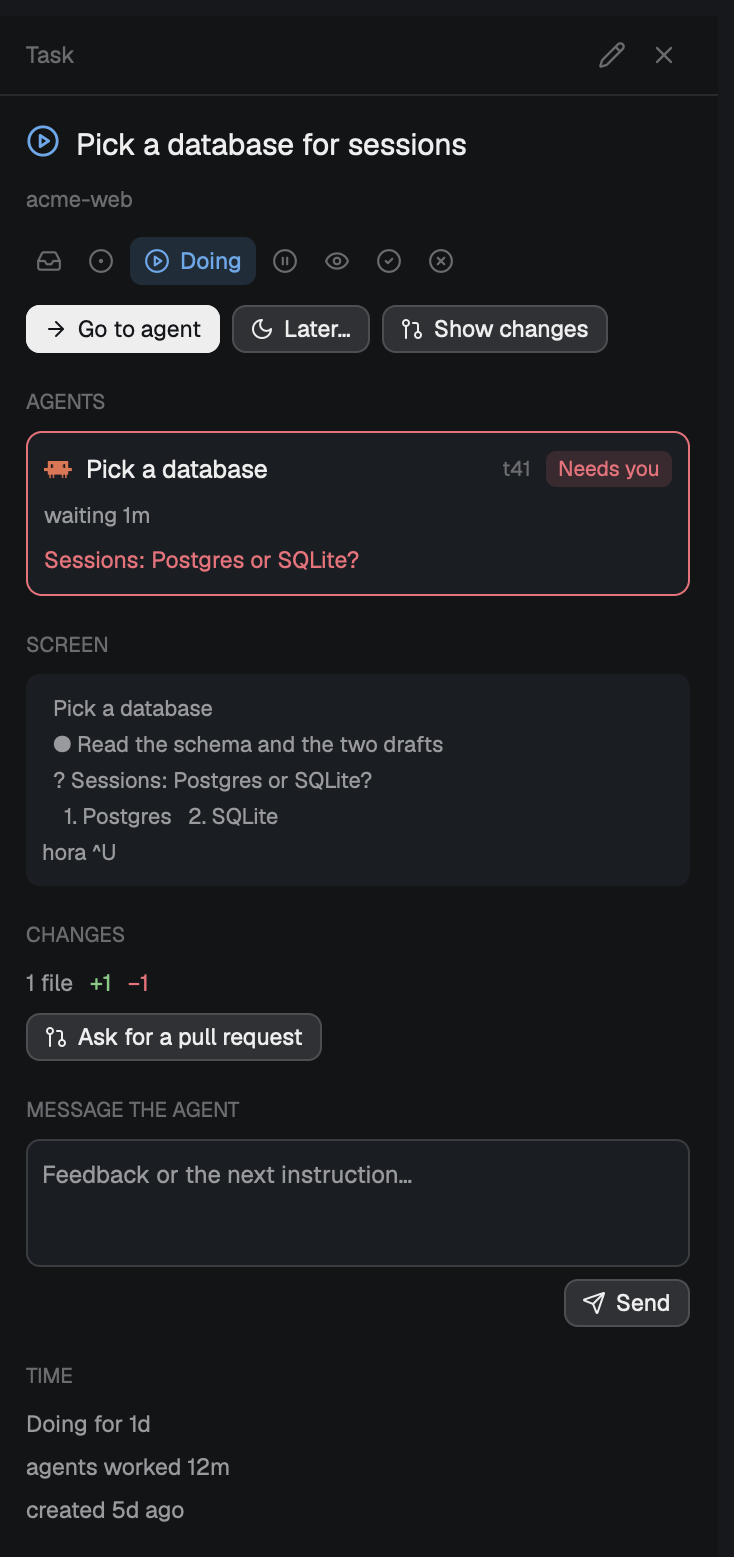
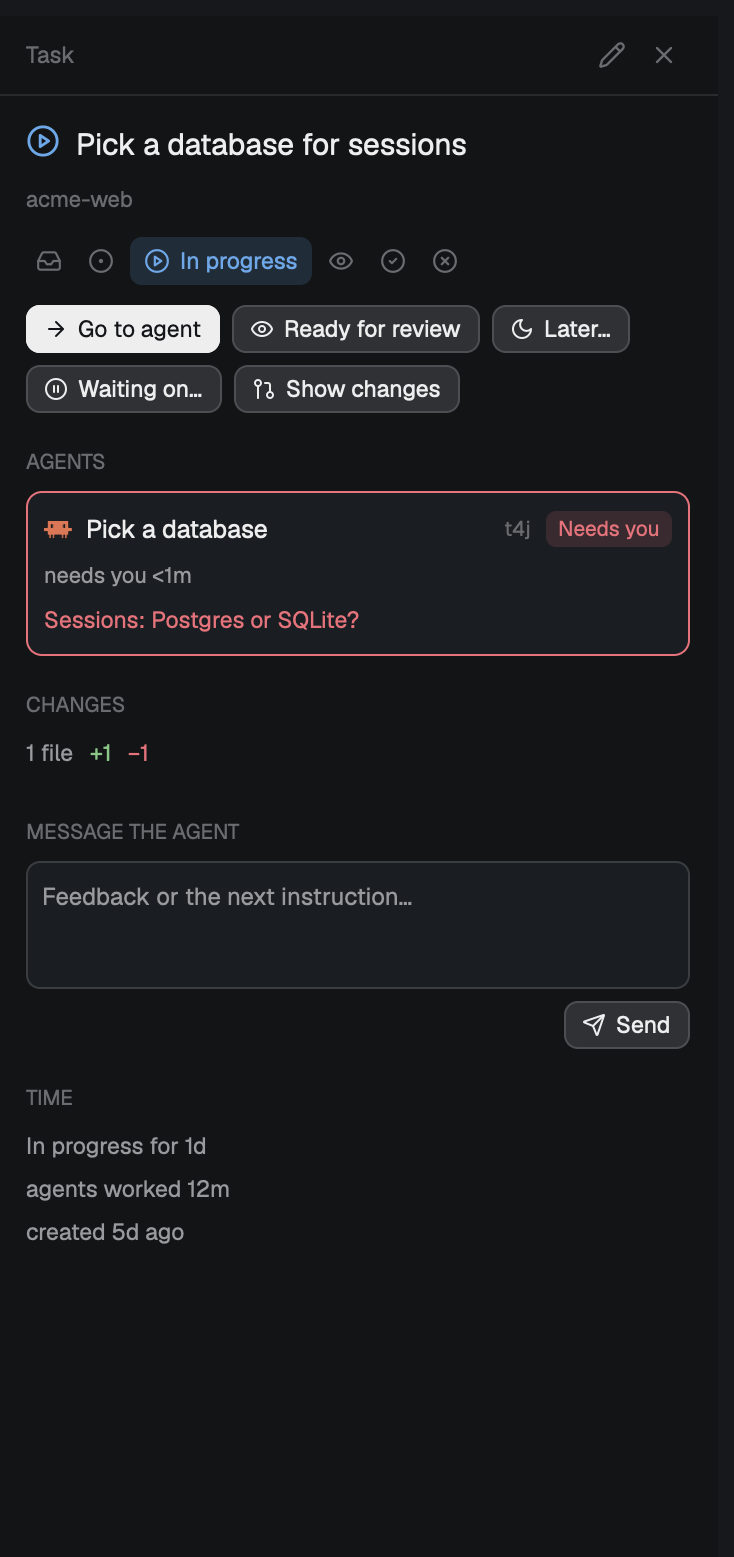
taskr 1.7.1: pull requests only for a task with its own branch, Stats bars across the width, new screenshots for 1.7

diff --git a/site/tutorial.html b/site/tutorial.html
@@ -44,6 +44,7 @@
         <li><a href="#review">Review and finish</a></li>
         <li><a href="#resume">Pick up after a restart</a></li>
         <li><a href="#board">Plan on the board</a></li>
+        <li><a href="#stats">See what got done</a></li>
         <li><a href="#keys">Keys and settings</a></li>
       </ol>
     </nav>
@@ -69,7 +70,7 @@ cd herdr-taskr
       <section class="step" id="project">
         <h2>Make a project</h2>
         <div class="side-by-side">
-          <figure><img src="img/projects.png" width="660" height="1609" alt="The Projects view: the Acme project with two folders, their branches, changes and tasks." loading="lazy"></figure>
+          <figure><img src="img/projects.png" width="660" height="1700" alt="The Projects view: the Acme project with two folders, their branches, changes and tasks." loading="lazy"></figure>
           <div>
             <p>Press <kbd>tab</kbd> in the list (or click <strong>Projects</strong>) to see the outline. Every folder open in Herdr shows up, under <em>No project</em> at first.</p>
             <p>Click the folder button in the header to make a project: give it a name and add its folders with <strong>Add folder…</strong>: a repository, or a plain folder with no repositories inside, goes in at once; a folder that holds several (<code>~/dev</code>) lists them to tick, with a filter, or you can <em>Add &lt;folder&gt; itself</em>. A folder in a project is only a pointer: no terminal, no task, until you start something there; right-click it to move it to another project or remove it from this one. A project's own <strong>›_</strong>, <strong>+</strong> and <strong>⋯</strong> open a terminal, a task or an agent for the whole project: they open in the project's own space, in the folder holding all its folders (<code>~/dev</code>; your home folder while it has none, or when they share nothing below it), and show at the project's level, above its folders; the agent reaches every folder and is told which they are. <strong>⋯ → Close project</strong> closes the project's space and every space of its folders (a folder's menu closes just its own). You can also drag a folder (like <code>~</code>) onto a project's name to move it there, with its tasks. Drag a project's row onto another to change their order.</p>
@@ -82,7 +83,7 @@ cd herdr-taskr
       <section class="step" id="tasks">
         <h2>Add tasks</h2>
         <p>Press <kbd>n</kbd>, click <strong>+</strong> in the header, or <strong>+</strong> on a folder to start with that folder filled in.</p>
-        <figure class="mid"><img src="img/form.png" width="1160" height="1360" alt="The New task form: title, project, folder, status, due date, estimate, next step and notes." loading="lazy"><figcaption>Only the title is required. Enter saves.</figcaption></figure>
+        <figure class="mid"><img src="img/form.png" width="1160" height="1360" alt="The task form for an Acme task: title, folder (the whole project or one of its folders), stage, due date, estimate, next step and notes." loading="lazy"><figcaption>Only the title is required. Enter saves.</figcaption></figure>
         <p>Keep the title short. The <strong>next step</strong> is the one action to take now; what the work needs (context, details, how it should be done, links) goes in <strong>Notes</strong>. When you start an agent on the task, it gets the title, the next step and the notes as its first message.</p>
         <p>Write the due date the way you'd say it:</p>
         <table class="keys">
@@ -130,14 +131,14 @@ Add login · opus 5.5 · high · ctx 182k      ~/dev/api</code></pre>
       <section class="step" id="review">
         <h2>Review and finish</h2>
         <div class="side-by-side">
-          <figure><img src="img/detail-review.png" width="734" height="1361" alt="A finished task in Review: its agent's last screen, changes, and the Mark done button." loading="lazy"></figure>
+          <figure><img src="img/detail-review.png" width="734" height="1361" alt="A task in Review: its agent's last screen, a message box, and the Mark done button." loading="lazy"></figure>
           <div>
             <p>When the agent stops, its turn is over, not the task: it shows under <strong>Finished</strong>, in bold until you look, then with its agent <em>Idle</em>, waiting for your next word (its stage stays <strong>In progress</strong>). Give it the next instruction, or, when the whole task is ready, press <strong>Ready for review</strong>: it moves to <strong>To review</strong>. Nothing is marked done by itself: that's your call. (Working with pull requests? A PR opened for a task in its own worktree moves it to Review too.)</p>
             <p>Not now? Move it to <strong>Next</strong> (you'll do it) or <strong>Dropped</strong> (you won't), or park it: <strong>Later</strong> (right-click or <kbd>z</kbd>) for tomorrow, next week, a day you type, <em>someday</em> or <em>until its agent works</em>; <strong>Waiting on…</strong> when it depends on someone, with who and a day to follow up. It waits in a folded <em>Later</em> section, out of your in-progress count, and comes back on its day with a notification.</p>
             <p>In the detail, under <strong>Changes</strong>:</p>
             <ul>
               <li><strong>Show changes</strong> opens Herdr's diff panel for the task's folder.</li>
-              <li>With <code>gh</code>, the pull request and its CI checks appear. <strong>Ask for a pull request</strong> sends the agent a request to commit, push and open one; <strong>Send failed checks</strong> sends it the names of the checks that failed.</li>
+              <li>For a task with its own branch (started in a worktree) and <code>gh</code>, the pull request and its CI checks appear. <strong>Ask for a pull request</strong> sends the agent a request to commit, push and open one; <strong>Send failed checks</strong> sends it the names of the checks that failed.</li>
             </ul>
             <p>Happy with it? Press <kbd>space</kbd> or <strong>Mark done</strong>. To put its tabs away too, right-click → <strong>Archive</strong>, which can also remove its worktree. A branch with unmerged commits is always kept.</p>
           </div>
@@ -167,6 +168,17 @@ Add login · opus 5.5 · high · ctx 182k      ~/dev/api</code></pre>
         </ul>
       </section>
 
+      <section class="step" id="stats">
+        <h2>See what got done</h2>
+        <p>The chart button at the top of Now opens Stats as a tab; a project's menu opens it for that project.</p>
+        <figure><img src="img/stats.png" width="2240" height="1230" alt="Stats over the last 7 days: four numbers, a bar chart of agent time per day, one of tasks done per day, and a table by project." loading="lazy"><figcaption>Hover a bar for its day and its number.</figcaption></figure>
+        <ul>
+          <li>Pick the period (today, or the last 7, 30 or 90 days) and every project or one.</li>
+          <li><em>Done</em> counts the tasks you closed; <em>Worked on</em>, the tasks whose agents worked, those with no plan too; <em>Turns</em>, how many times an agent finished its turn; <em>Agent time</em>, how long they worked.</li>
+          <li>Done tasks count back through their history. Agent time and turns are kept per day from 1.7 on, so a longer period says from which day it counts.</li>
+        </ul>
+      </section>
+
       <section class="step" id="keys">
         <h2>Keys and settings</h2>
         <p>Clicking a task in the list shows it in the detail and brings its agent's tab (or its terminal) to the front.</p>
@@ -187,7 +199,7 @@ Add login · opus 5.5 · high · ctx 182k      ~/dev/api</code></pre>
         <p>Anywhere in the layout: <kbd>cmd</kbd> <kbd>k</kbd> finds a task, <kbd>cmd</kbd> <kbd>shift</kbd> <kbd>n</kbd> makes one, <kbd>cmd</kbd> <kbd>i</kbd> shows or hides the detail.</p>
         <figure class="mid"><img src="img/jump.png" width="1080" height="880" alt="Find a task: a search box over the list of tasks, open ones first." loading="lazy"><figcaption>Find a task searches titles, folders, next steps, projects and issue numbers. Arrows move, enter opens.</figcaption></figure>
         <div class="side-by-side">
-          <figure><img src="img/settings.png" width="960" height="2360" alt="taskr settings: Park idle agents, Pause quiet projects, Now and Projects as tabs or stacked, In-progress limit, Days without movement, Agents after a restart, Reminders, Activity in the details, Plan usage, and which agent to start." loading="lazy"></figure>
+          <figure><img src="img/settings.png" width="960" height="2360" alt="taskr settings: Park idle agents, Now and Projects as tabs or stacked, Pause quiet projects, In-progress limit, Days without movement, Agents after a restart, Reminders, Activity in the details, Plan usage, and which agent to start." loading="lazy"></figure>
           <div>
             <p>The gear at the right of the status bar opens the settings:</p>
             <ul>

diff --git a/site/index.html b/site/index.html
@@ -74,12 +74,12 @@ cd herdr-taskr &amp;&amp; ./install.sh --keys</span><button class="copy" data-co
 
       <div class="views">
         <div class="view side">
-          <img src="img/now-list.png" width="660" height="1536" alt="The Now list: what the agents ask of you (Needs you, Finished, Working), then the stages (To review, In progress, Next, Inbox), and a folded Later section; agents started from a terminal are tasks in it too." loading="lazy">
+          <img src="img/now-list.png" width="608" height="1580" alt="The Now list: what the agents ask of you (Needs you, Finished, Working), then the stages (In progress, Next, Inbox), and a folded Later section; agents started from a terminal are tasks in it too." loading="lazy">
           <div><h3>Now</h3>
           <p>What moves work forward, in order: what your agents ask of you, then the work by stage. An agent's question sits in the row itself, so you can answer without hunting for the tab. Not now, or waiting on someone? Park it with <em>Later</em> or <em>Waiting on…</em>: it waits out of the way and comes back on its day, with a reminder.</p></div>
         </div>
         <div class="view side">
-          <img src="img/projects.png" width="660" height="1609" alt="The Projects outline: Acme with a task and a terminal for the whole project above its folders acme-web and acme-api, each with branch, changes and tasks." loading="lazy">
+          <img src="img/projects.png" width="660" height="1700" alt="The Projects outline: Acme with a task and an agent for the whole project above its folders acme-web and acme-api, each with branch, changes and tasks." loading="lazy">
           <div><h3>Projects</h3>
           <p>Projects, their folders (a git folder shows its branch, commits not pushed and uncommitted changes) and their tasks. Terminals show up under their folder; a shell isn't a task. Each project gets its own board, and its own terminal, tasks and agents, which work across all its folders. Want both lists at once? Stack Projects over Now in the settings.</p></div>
         </div>
@@ -90,8 +90,14 @@ cd herdr-taskr &amp;&amp; ./install.sh --keys</span><button class="copy" data-co
           <p>One column per stage, and a board per project in a tab of its own. Agents started from a terminal are cards too, with no plan. Drag a card to another column or into place among the others, and watch the In progress column count against the limit you set.</p>
         </div>
 
+        <div class="view wide">
+          <img src="img/stats.png" width="2240" height="1230" alt="Stats over the last 7 days: Done 5, Worked on 6, Turns 46, Agent time 5h 14m; a bar chart of agent time per day, one of tasks done per day, and a table by project." loading="lazy">
+          <h3>Stats</h3>
+          <p>What got done today or over the last 7, 30 or 90 days, for every project or one: tasks you closed, tasks your agents worked on, their turns and their time, a chart per day and a table by project. Agents you started without a plan count like any task.</p>
+        </div>
+
         <div class="view wide split">
-          <img src="img/detail-blocked.png" width="734" height="1557" alt="The detail of a task whose agent needs an answer: the question, the agent's screen, its changes and a message box." loading="lazy">
+          <img src="img/detail-blocked.png" width="734" height="1557" alt="The detail of a task whose agent needs an answer: the question, its changes and a message box." loading="lazy">
           <div>
             <h3>Task detail</h3>
             <p>Everything about one task, next to its agent.</p>
@@ -127,7 +133,7 @@ cd herdr-taskr &amp;&amp; ./install.sh --keys</span><button class="copy" data-co
       <p class="intro">The parts that save a trip to another window.</p>
       <div class="views">
         <div class="view wide split">
-          <img src="img/detail-resume.png" width="734" height="876" alt="A task whose agent is gone, with Resume agent above Start agent." loading="lazy">
+          <img src="img/detail-resume.png" width="734" height="876" alt="A task whose agent is gone: Resume agent first, then Start agent and Start with…." loading="lazy">
           <div>
             <h3>Resume after a restart</h3>
             <p>taskr remembers the Claude Code or Codex conversation each task's agent was in. After a reboot, or once you closed its tab, <em>Resume agent</em> picks it up where it was, in its folder, tied to the task again.</p>
@@ -137,7 +143,7 @@ cd herdr-taskr &amp;&amp; ./install.sh --keys</span><button class="copy" data-co
           </div>
         </div>
         <div class="view wide split">
-          <img src="img/light-tasks.png" width="660" height="600" alt="Now: an agent started from a terminal, Try a search box for the docs, is a task with no plan, next to planned tasks." loading="lazy">
+          <img src="img/light-tasks.png" width="608" height="600" alt="Now: an agent started from a terminal, Try a search box for the docs, is a task with no plan, next to planned tasks." loading="lazy">
           <div>
             <h3>Tasks or terminals, the same flow</h3>
             <p>Started an agent in a terminal on a hunch? Every agent is a task: one with no plan, named after what the agent calls its work, in progress while its agent is open, on the list and the board. It goes to Done when its agent quits or its tab closes (the tab is a plain terminal again), and Resume agent picks it up. Many agents open? Park the idle ones until they work again, by hand or by themselves after a while. Press <em>Plan it…</em> to give it a next step, notes or a due date, or change anything and it's yours. Plan with tasks when you want the details; work with terminals when you don't.</p>

diff --git a/mods/taskr/stats.js b/mods/taskr/stats.js
@@ -41,17 +41,20 @@ export const Stats = {
       .child(div().text_size(22).font_semibold().text_color(t.foreground).child(value))
       .when(Boolean(sub), (el) => el.child(div().text_size(11).text_color(t.muted).child(sub)));
     const hours = (ms) => (ms ? duration(ms) : "0m");
-    // A bar per day: one measure per chart, its height from that chart's largest day.
+    // A bar per day: one measure per chart, its height from that chart's largest day. Each day has
+    // its slot; its date shows under it over a week or less, else under the first and last.
     const bars = (id, label, values, color, show) => {
       const max = Math.max(...values.map((v) => v.value), 0);
+      const dated = (i) => values.length <= 7 || i === 0 || i === values.length - 1;
       return v_flex().id(id).gap(6).p(12).rounded(9).bg(t.chrome).border_1().border_color(t.border).min_w(0)
         .child(div().text_size(11.5).text_color(t.muted).child(label))
-        .child(h_flex().h(BAR_H).gap(2).items_end().min_w(0)
-          .children(values.map((v, i) => div().id(`${id}-${i}`).flex_1().min_w(2).max_w(28)
-            .h(max ? Math.max(v.value ? 3 : 1, Math.round((v.value / max) * BAR_H)) : 1)
-            .rounded_t(3).bg(v.value ? color : t.border).tooltip(`${S.statsDay(v.day)}: ${show(v.value)}`))))
-        .child(h_flex().justify_between().text_size(10.5).text_color(t.dim)
-          .child(div().child(S.statsDay(values[0]?.day))).child(div().child(S.statsDay(values.at(-1)?.day))));
+        .child(h_flex().gap(2).items_end().min_w(0)
+          .children(values.map((v, i) => v_flex().id(`${id}-${i}`).flex_1().min_w(2).gap(4).items_center()
+            .tooltip(`${S.statsDay(v.day)}: ${show(v.value)}`)
+            .child(h_flex().h(BAR_H).w_full().items_end().justify_center()
+              .child(div().w_full().max_w(28).h(max ? Math.max(v.value ? 3 : 1, Math.round((v.value / max) * BAR_H)) : 1)
+                .rounded_t(3).bg(v.value ? color : t.border)))
+            .child(div().h(14).text_size(10.5).text_color(t.dim).whitespace_nowrap().child(dated(i) ? S.statsDay(v.day) : "")))));
     };
     const name = (id) => (id ? this.store.project(id)?.name ?? S.noProject : S.noProject);
     const cell = (text, w, right = true, color = t.foreground) => div().w(w).flex_none().when(right, (el) => el.text_right()).text_color(color).child(text);
@@ -74,7 +77,7 @@ export const Stats = {
         .children(this.store.data.projects.filter((p) => !p.paused || p.id === this.statsProject)
           .map((p) => pill(`spj-${p.id}`, p.name, this.statsProject === p.id, () => { this.statsProject = p.id; }, "layers"))))
       .child(v_flex().id("st-body").flex_1().min_h(0).px(14).pb(16).gap(12).overflow_y_scrollbar()
-        .child(h_flex().gap(10).flex_wrap()
+        .child(h_flex().gap(10).flex_wrap().items_stretch()
           .child(tile("st-done", S.statsDone, String(sum.totals.done), S.statsDoneSub))
           .child(tile("st-worked", S.statsWorked, String(sum.totals.worked), sum.totals.noPlan ? S.statsNoPlan(sum.totals.noPlan) : null))
           .child(tile("st-turns", S.statsTurns, String(sum.totals.turns)))

diff --git a/mods/taskr/detail.js b/mods/taskr/detail.js
@@ -59,8 +59,10 @@ export const Detail = {
         if (!inView) this.det.screen = screen?.code === 0 ? (screen.stdout ?? "").split("\n").filter((l) => l.trim() && !l.startsWith("[hc]")).slice(-8) : null;
         this.det.where = where;
         this.det.diff = diff;
-        if (where && ["review", "doing", "done"].includes(x.t.status) && Date.now() - (this.det.prAt ?? 0) > PR_EVERY) {
-          this.det.pr = await pullRequest(where);
+        // Pull requests are for a task with its own branch (a worktree): working on main, there's none.
+        if (!x.t.branch) this.det.pr = null;
+        else if (where && ["review", "doing", "done"].includes(x.t.status) && Date.now() - (this.det.prAt ?? 0) > PR_EVERY) {
+          this.det.pr = await pullRequest(where, x.t.branch);
           this.det.prAt = Date.now();
         }
       } catch {}
@@ -171,7 +173,7 @@ export const Detail = {
         .when(pr.total > 0, (el) => el.child(chip(t, pr.failed.length ? S.checksFailedChip(pr.failed.length) : pr.pending ? S.checksRunning(pr.pending) : S.checksPassed, pr.failed.length ? t.blocked : pr.pending ? t.ansi3 : t.ansi2)))
         .when(Boolean(pr.review), (el) => el.child(chip(t, pr.review.toLowerCase().replace(/_/g, " "), t.dim))) : null,
       e ? h_flex().gap(6).flex_wrap()
-        .when(!pr, (el) => el.child(button(t, "d-pr", S.askPR, (_e, cx) => cx.spawn(async () => send(e.a.address, S.prRequest)), { small: true, iconName: "git-pull-request" })))
+        .when(!pr && Boolean(task.branch), (el) => el.child(button(t, "d-pr", S.askPR, (_e, cx) => cx.spawn(async () => send(e.a.address, S.prRequest)), { small: true, iconName: "git-pull-request" })))
         .when(Boolean(pr?.failed?.length), (el) => el.child(button(t, "d-checks", S.sendFailedChecks, (_e, cx) => cx.spawn(async () => send(e.a.address, S.checksFailed(pr.failed))), { small: true, danger: true, iconName: "circle-alert" }))) : null,
     ) : null;
 

diff --git a/docs/development.md b/docs/development.md
@@ -67,7 +67,7 @@ while shown.
 ## A demo in the real window
 
 ```sh
-node scripts/demo.mjs          # 3 made-up folders in ~/taskr-demo, 14 tasks, 4 stand-in agents
+node scripts/demo.mjs          # 3 made-up folders in ~/taskr-demo, 14 tasks (12 more done earlier, for Stats), 4 stand-in agents
 node scripts/demo.mjs --adopt <tab id>   # also one of your real agent tabs, as a demo task
 node scripts/demo.mjs --clean  # closes the demo spaces, deletes ~/taskr-demo, restores your tasks
 ```
@@ -91,11 +91,14 @@ task, so they're neither made into no-plan tasks nor drawn; its agents' addresse
   say so first and take every shot in one go; to check behaviour, read files instead (`tasks.json`). Close a stray popup with `herdr-app do overlay.close`.
 - Drive it with commands: `taskr.view`, `taskr.select:<id>` (opens the detail), `taskr.board`,
   `taskr.new`, `taskr.settings`, `taskr.jump`, `layout.select`/`layout.hide`, `pane.focus {terminal}`.
-- `preview.png`, `site/img/overview.png` and `board.png`: the whole frame at half size. Lists: x 0–660
-  from y 80. Detail: x 3746–4480 from y 84. Dialogs: their box (settings exactly, the form and the
+- `preview.png`, `site/img/overview.png`, `board.png` and `stats.png`: the whole frame at half size, with
+  Now in the sidebar (Projects lists your own plain terminals under *No project*: they'd be in the shot).
+  Lists: x 0–660 from y 80; cut Projects above *No project*. Detail: x 3746–4480 from y 84. Dialogs: their box (settings exactly, the form and the
   find box with a 20px margin); the form is a demo task's (*Edit task*), since *New task* lists the
   folders open on your Mac. Shots taken one after another can repeat a stale frame: activate the
   window before each one and compare them. Update `width`/`height` in `site/*.html` when a size changes.
+- Find a dialog's box by its background (`#282b2e` in the dark theme) rather than by eye; the find
+  box is 1040px wide at x 1720.
 - Note what you changed (sidebar size, stack child, detail shown, `taskr.view`) and put it back
   after `--clean`.
 

diff --git a/CHANGELOG.md b/CHANGELOG.md
@@ -1,5 +1,21 @@
 # Changelog
 
+## 1.7.1 — 2026-11-14
+
+### Fixed
+- **Stats**: over 7 days the bars sat bunched on the left while the first and last dates went to the
+  edges. Each day now has its own slot across the width, with its date under it over a week (the
+  first and last over 30 or 90 days), and the four numbers at the top are the same height.
+
+- **Pull requests only for a task with its own branch.** The detail no longer offers *Ask for a pull
+  request*, nor asks `gh`, for a task worked on in its folder's own branch (main, say): only one
+  started in a worktree has a PR and checks to show, as with Review when its PR opens.
+
+### Docs
+- New screenshots for 1.7 (Now, Projects, the board, the details, the form, find, settings, stacked
+  lists) and one of Stats, now on the site and in the tutorial. The demo keeps some weeks of agent work
+  and tasks done earlier, so Stats has something to show.
+
 ## 1.7.0 — 2026-11-14
 
 **One language for tasks: three questions, three owners.** A task's **stage** (Inbox, Next, In progress,

diff --git a/RECIPE.md b/RECIPE.md
@@ -93,8 +93,9 @@ every task by stage.
   sections in 10.5px uppercase `dim`:
   Next step, Notes, Agents (cards: program icon, title, address, state, "opus 5.5 · medium · ctx
   248k · turn 7 · working 1m", the pending question, sub-tasks and sub-agents as a tree), Screen
-  (last 8 non-empty lines of the agent's terminal), Changes (branch, "N files +add −del", PR chip
-  that opens the PR, checks chip, "Ask for a pull request", "Send failed checks"), Message the agent
+  (last 8 non-empty lines of the agent's terminal), Changes ("N files +add −del"; for a task with
+  its own branch: the branch, PR chip that opens the PR, checks chip, "Ask for a pull request", "Send
+  failed checks"), Message the agent
   (textarea + Send), Time ("In progress for 2h", "agents worked 47m", "created 4d ago"), and with
   *Activity in the details* on (off by default) Activity (history, newest first).
 - **Board** (a tab whose only pane is the mod with `role: "board"`, named "Board"; a project's own

diff --git a/README.md b/README.md
@@ -150,8 +150,8 @@ to another, opening its tab the first time.
 or *Details* in a task's menu; selecting a task never opens it, and it stays as you left it): its stage,
 *Ready for review* or *Mark done*, *Later…* and *Waiting on…*, the next step and notes; each agent with its
 model, reasoning effort, context, turn and sub-agents, and the question it's waiting on; the last
-lines of its screen; the changes in its folder, its pull request and CI checks (with *Ask for a pull
-request* and *Send failed checks*); a box to **message the agent**; time in state and agent time
+lines of its screen; the changes in its folder and, for a task with its own branch, its pull request and CI checks (with
+*Ask for a pull request* and *Send failed checks*); a box to **message the agent**; time in state and agent time
 (and every change of stage, with *Activity in the details* on in the settings).
 
 **Start agent** on a task opens your agent in the folder's space with the task (title, next
